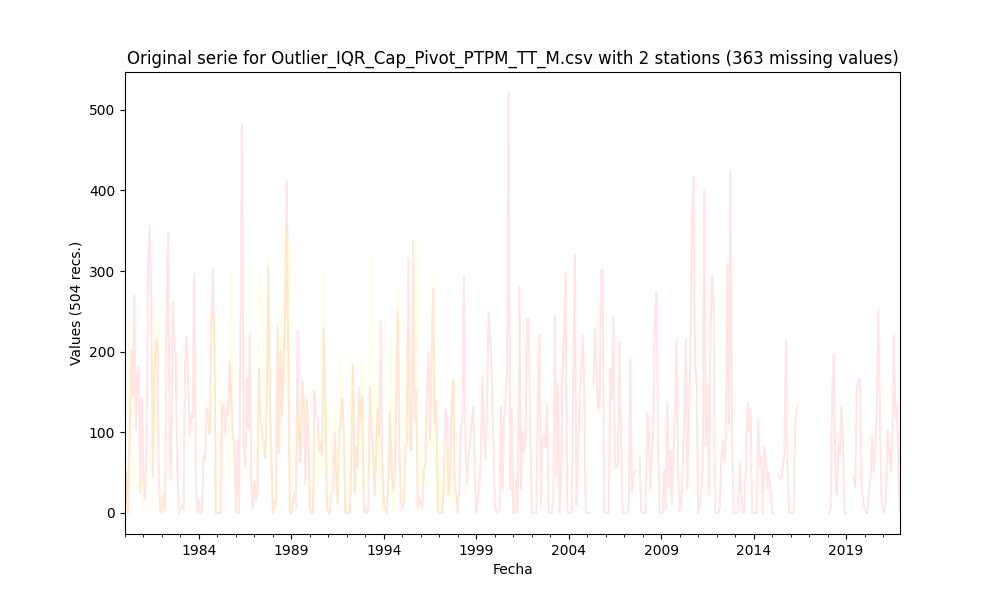
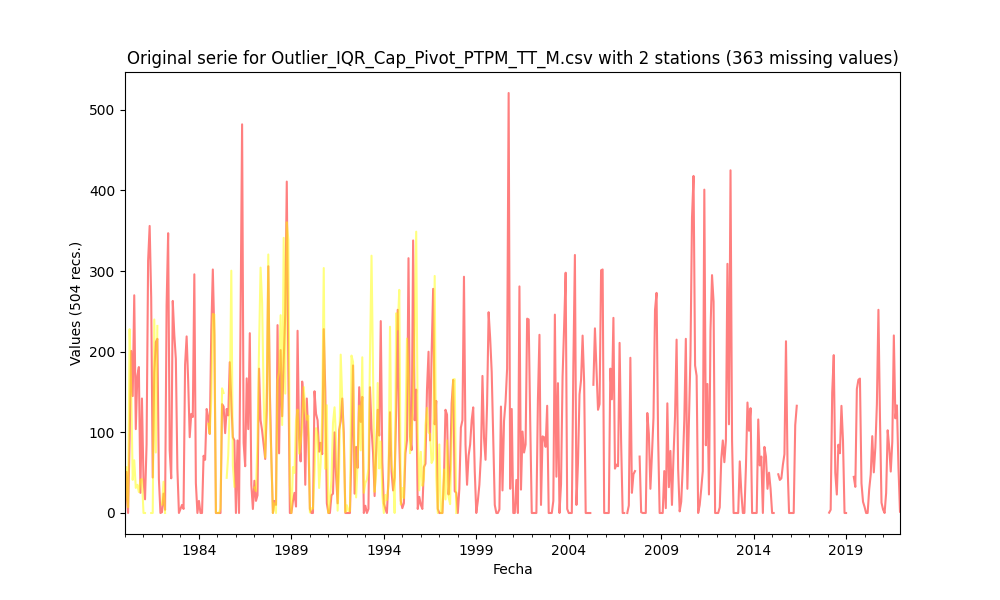
General update.

Changed region(s): [[0.124, 0.27, 0.899, 0.87]]

diff --git a/.src/Impute.py b/.src/Impute.py
@@ -37,7 +37,7 @@ date_record_name = 'Fecha'  # IDEAM date field name for the record values
 plot_colormap = 'autumn'  # Color theme for plot graphics, https://matplotlib.org/stable/tutorials/colors/colormaps.html
 sample_records = 3  # Records to show in the sample table head and tail
 fig_size = 5  # Height size for figures plot
-fig_alpha = 0.1  # Alpha transparency color in plots
+fig_alpha = 0.5  # Alpha transparency color in plots
 print_table_sample = True
 show_plot = True
 #station_exclude = ['28017140', '25027020', '25027410', '25027490', '25027330', '25027390', '25027630', '25027360', '25027320', '16067010', '25027420']  # Use ['station1', 'station2', '...',]

diff --git a/.datasets/IDEAM_Impute/Impute_Outlier_IQR_Cap_Pivot_PTPM_TT_M.csv.md b/.datasets/IDEAM_Impute/Impute_Outlier_IQR_Cap_Pivot_PTPM_TT_M.csv.md
@@ -1,7 +1,7 @@
 ## Impute missing values in time series through statistical methods
 
 * Processed file: [D:/R.LTWB/.datasets/IDEAM_Outlier/Outlier_IQR_Cap_Pivot_PTPM_TT_M.csv](../IDEAM_EDA/Outlier_IQR_Cap_Pivot_PTPM_TT_M.csv)
-* Execution date: 2022-11-10 10:21:43.449443
+* Execution date: 2022-11-10 10:22:09.037573
 * Python version: 3.10.5 (tags/v3.10.5:f377153, Jun  6 2022, 16:14:13) [MSC v.1929 64 bit (AMD64)]
 * Python path: ['D:\\R.LTWB\\.src', 'D:\\R.LTWB', 'D:\\R.GISPython.wiki', 'D:\\R.HydroTools', 'D:\\R.HydroTools.wiki']
 * matplotlib version: 3.6.0
